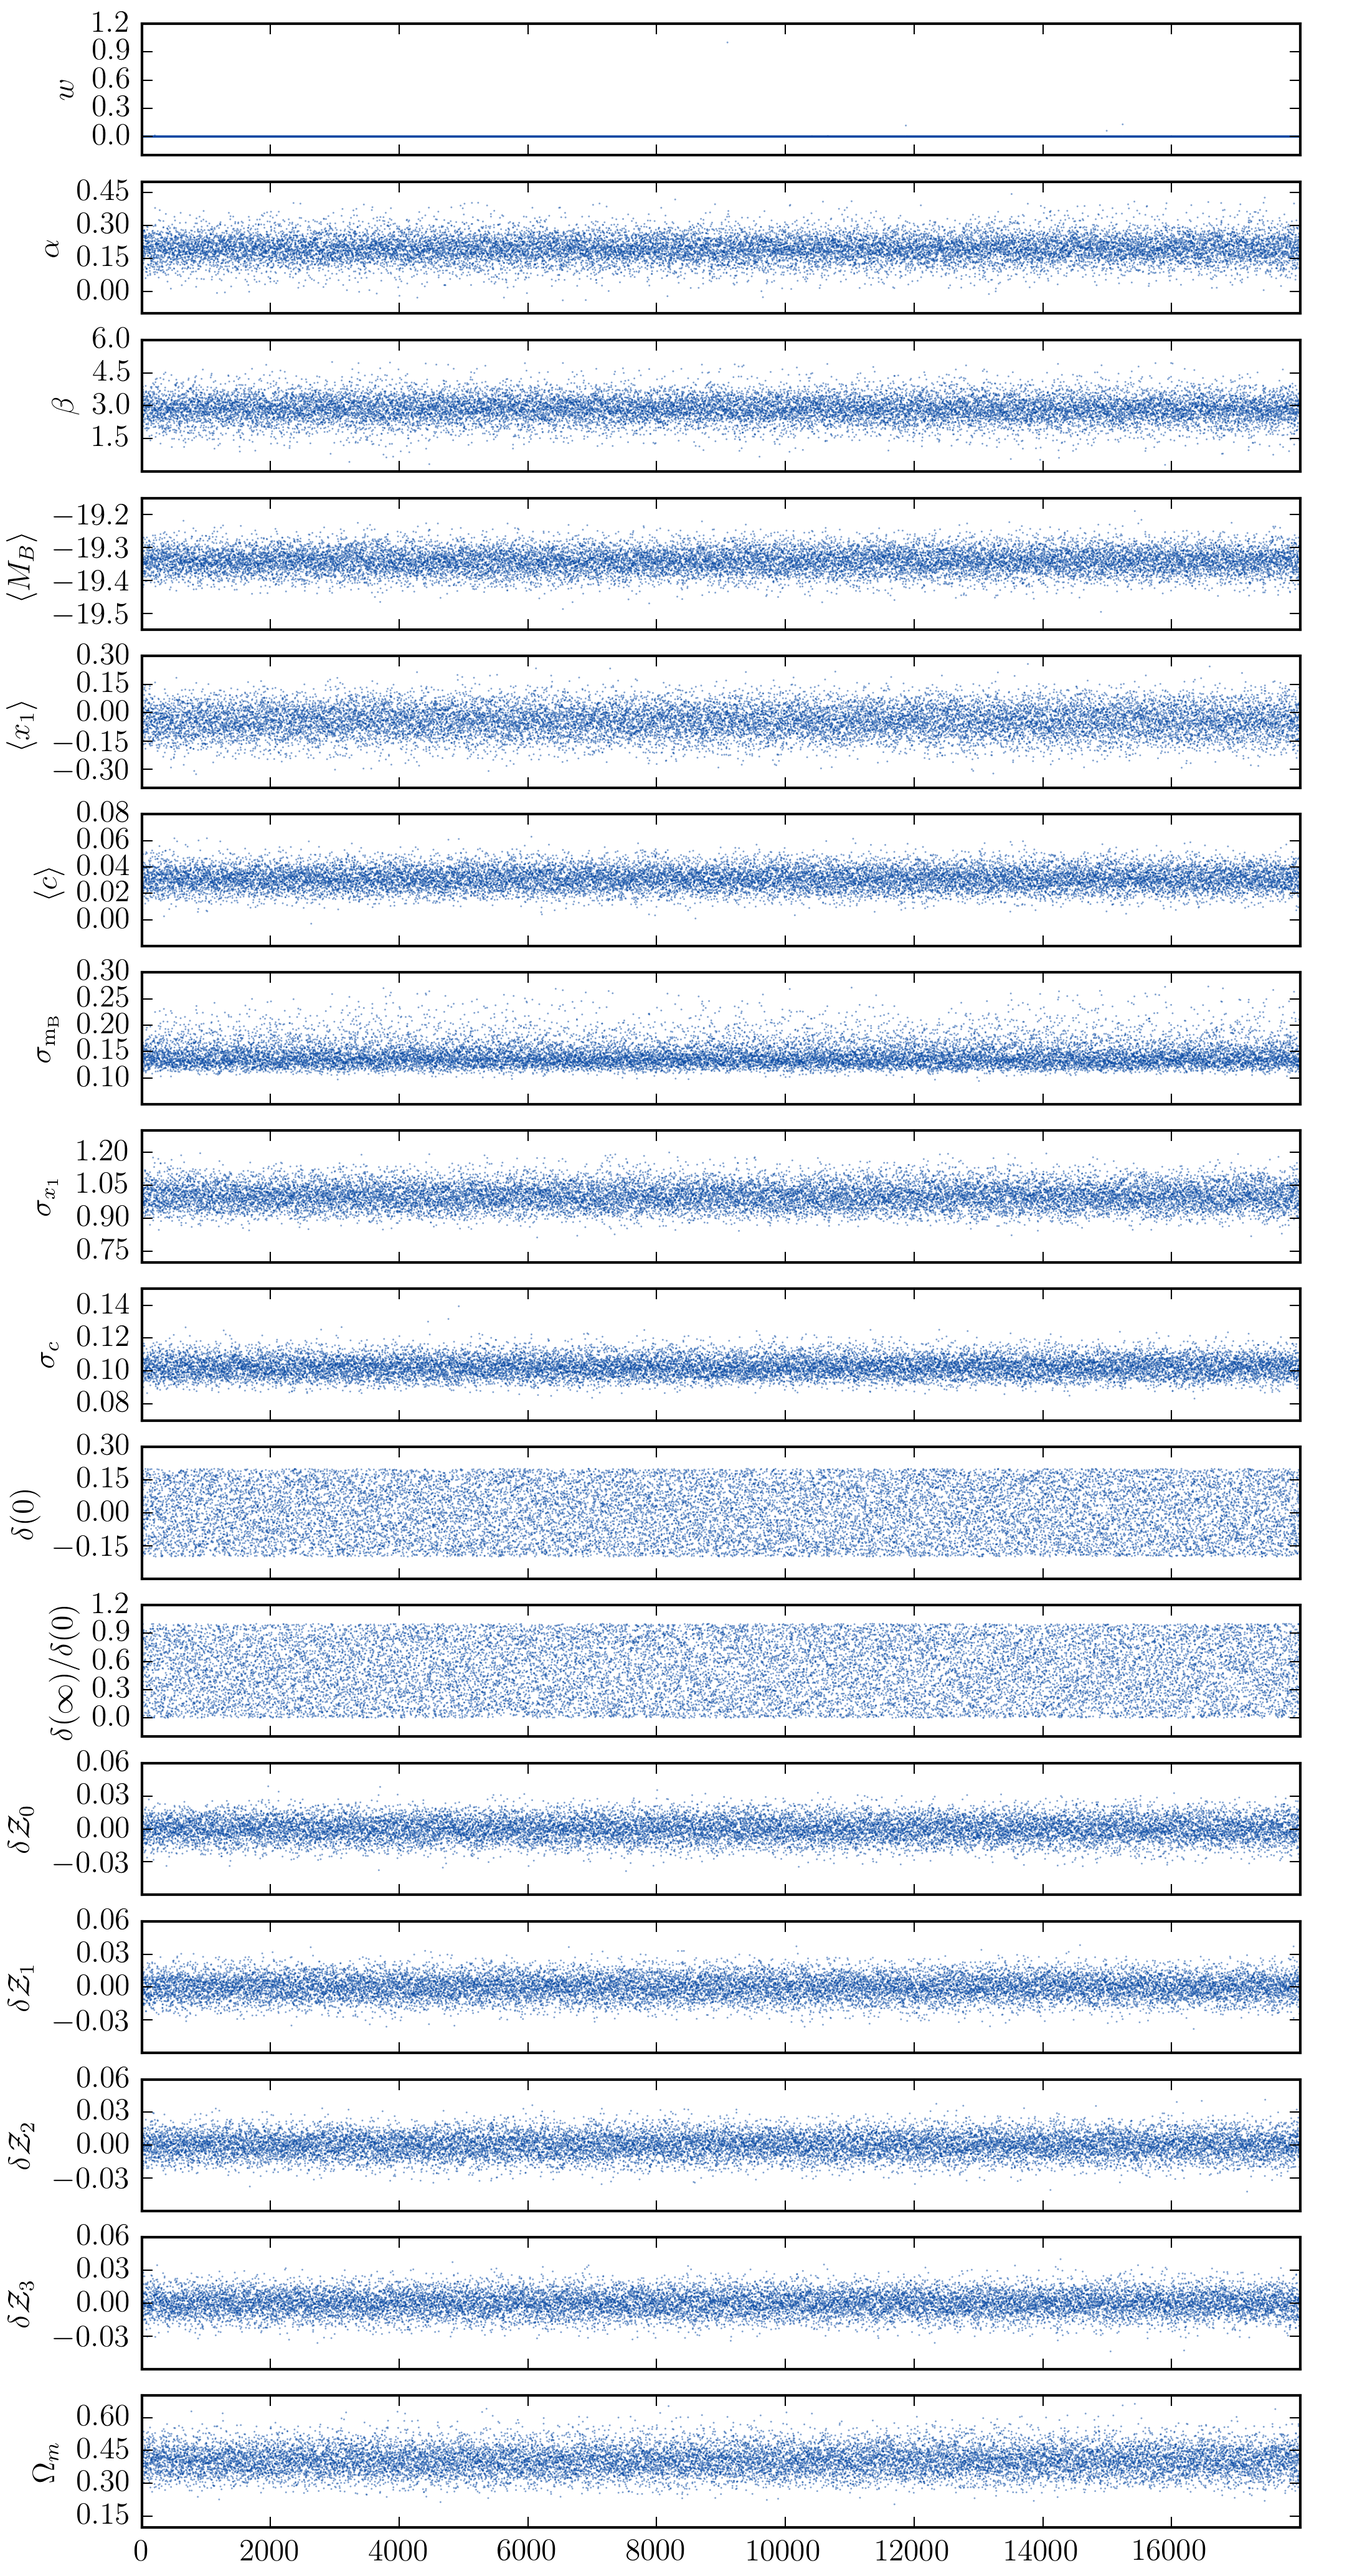
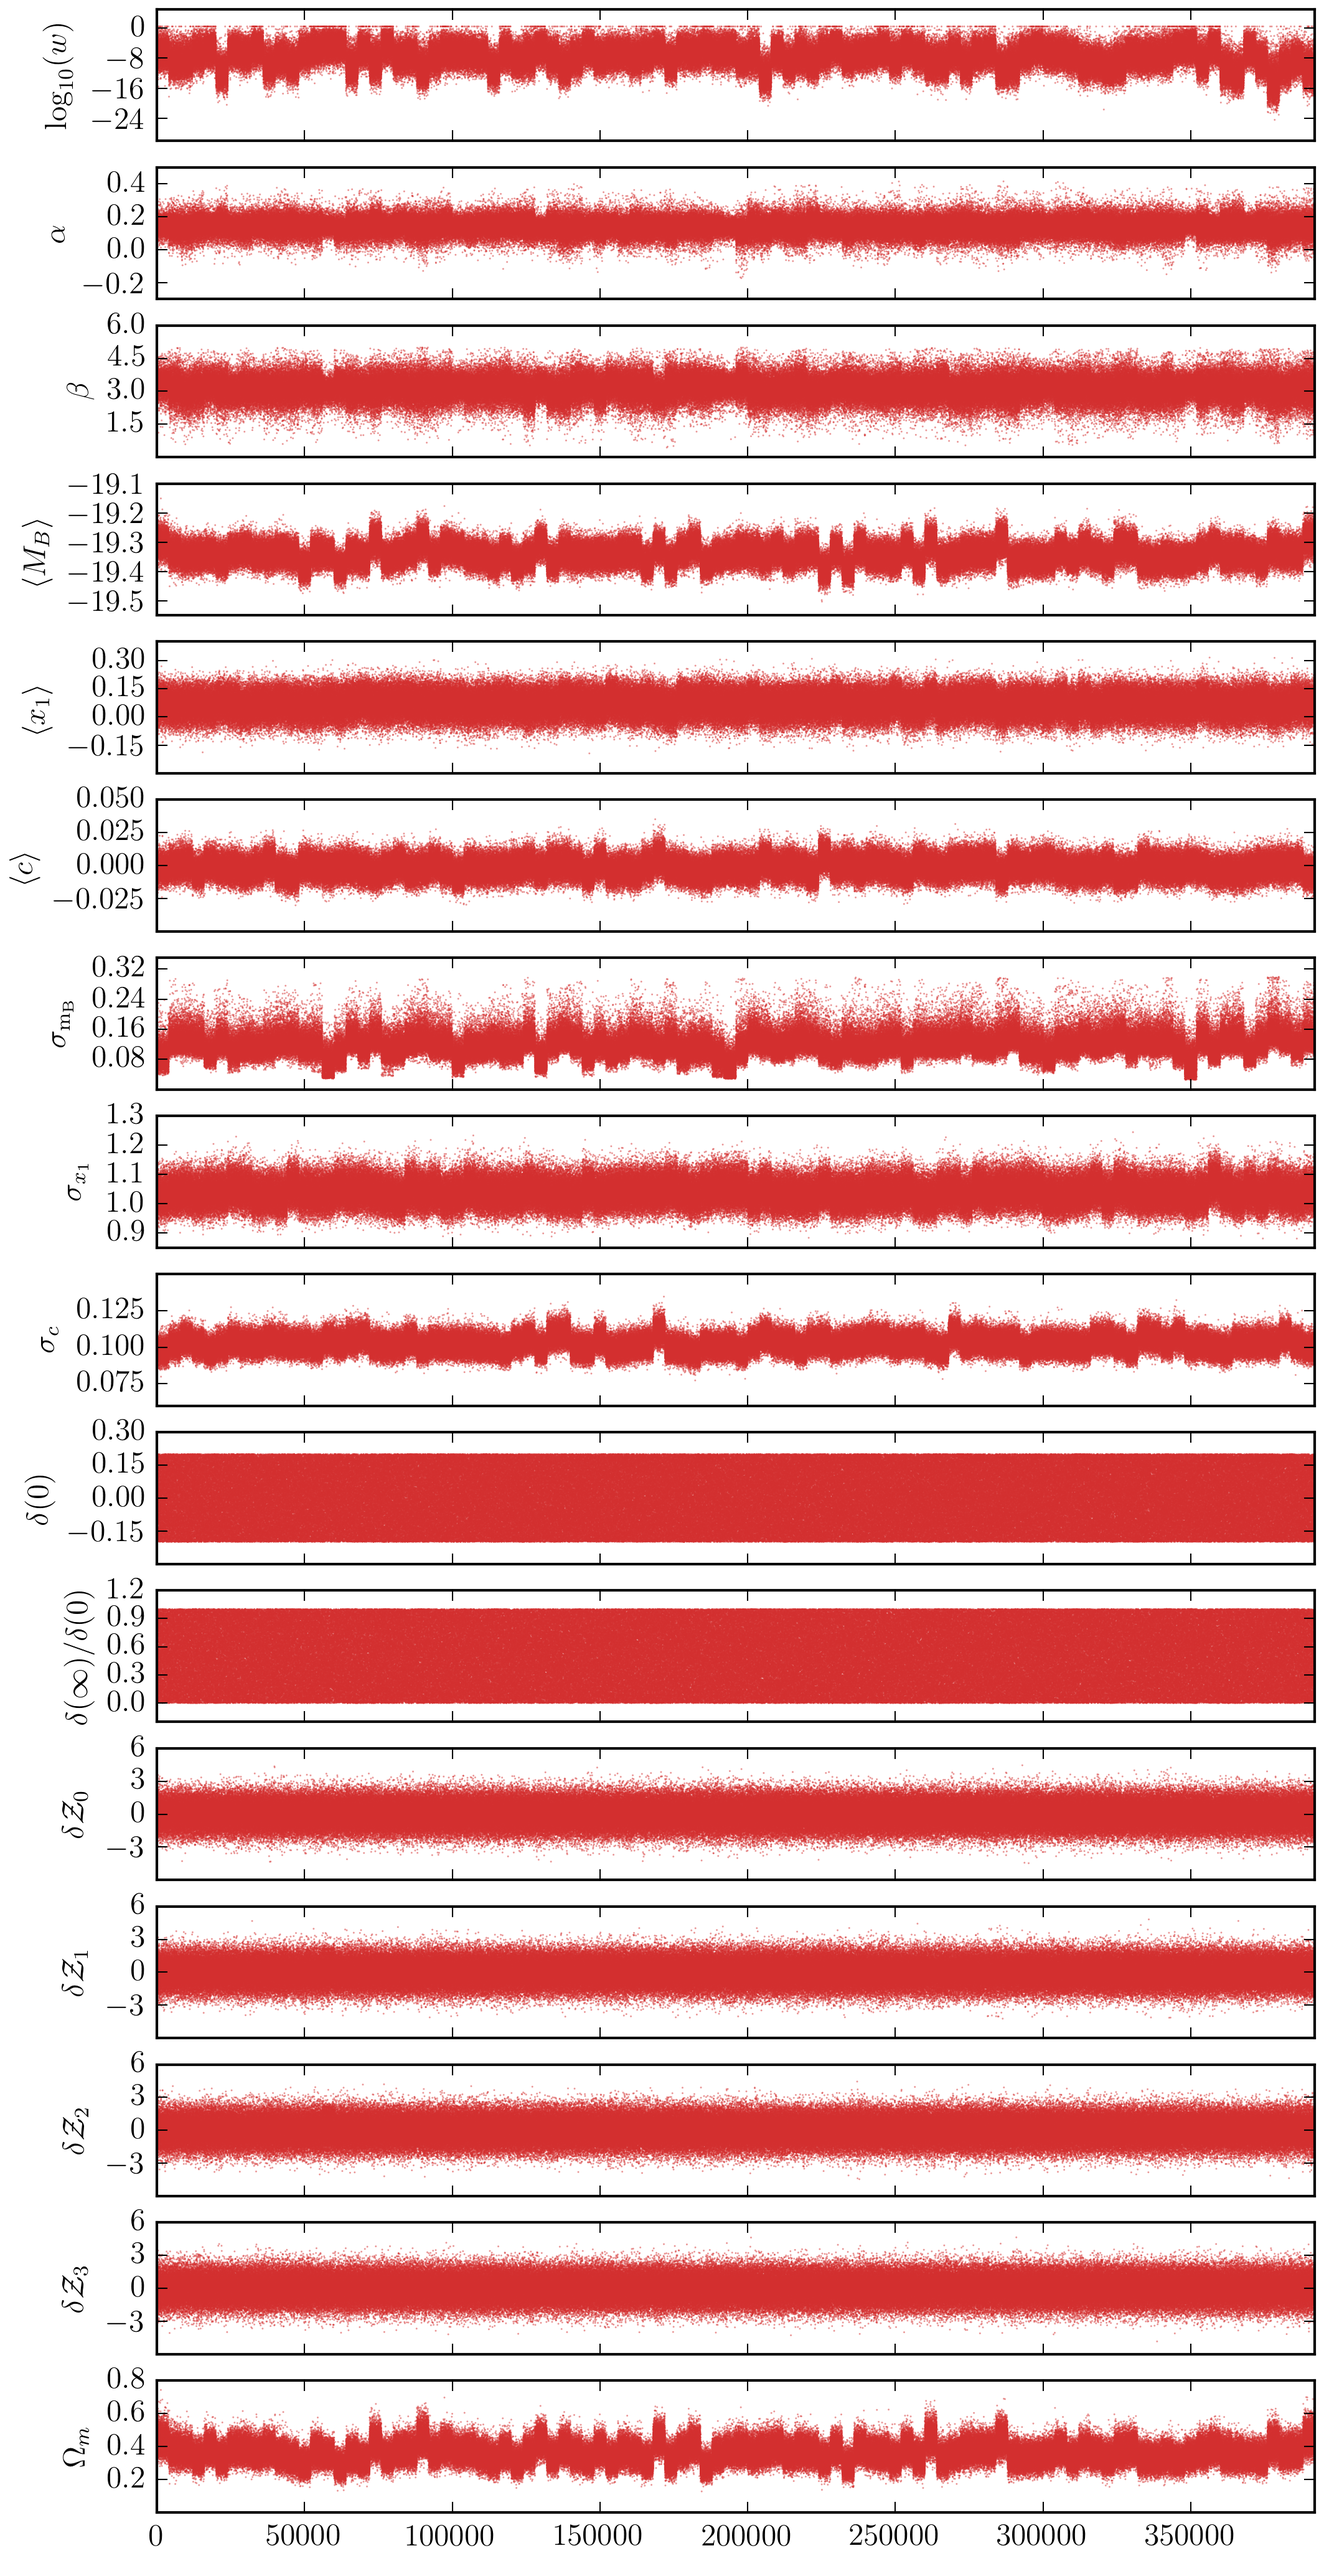
Even bigger run, now with multiple cosmologies

diff --git a/dessn/models/d_simple_stan/snana/load.py b/dessn/models/d_simple_stan/snana/load.py
@@ -16,12 +16,26 @@ def debug_plots(std):
     # plt.hist(np.log(w), 100)
     # plt.show()
     # exit()
+    logw = np.log(w)
+    m = np.mean(logw)
+    s = np.std(logw)
+    print(m, s)
+    logw -= (m + 3 * s)
+    good = logw < 0
+    logw *= good
+    w = np.exp(logw)
+
+    c = ChainConsumer()
+    c.add_chain(chain, weights=w, name="corrected")
+    c.configure(summary=True)
+    c.plot(figsize=2.0, filename="output.png", parameters=9)
+
     c = ChainConsumer()
     c.add_chain(chain, name="uncorrected")
     c.add_chain(chain, weights=w, name="corrected")
     # c.add_chain(chain, name="calib")
-    c.plot(filename="output.png", parameters=9, figsize=1.3)
-    c.plot_walks(chain=1, filename="walks.png")
+    c.plot(filename="output_comparison.png", parameters=9, figsize=1.3)
+    c.plot_walks(chains=1, filename="walks.png")
     # c.add_chain(chain, name="approx")
     # c.add_chain(chain, weights=w, name="full")
     # c.plot(filename="output.png", truth=t)

diff --git a/dessn/models/d_simple_stan/snana_dummy/load.py b/dessn/models/d_simple_stan/snana_dummy/load.py
@@ -16,6 +16,23 @@ def debug_plots(std):
     # plt.hist(np.log(w), 100)
     # plt.show()
     # exit()
+
+    logw = np.log(w)
+    m = np.mean(logw)
+    s = np.std(logw)
+    print(m, s)
+    logw -= (m + 3 * s)
+    good = logw < 0
+    logw *= good
+    w = np.exp(logw)
+
+    sorti = np.argsort(w)
+    for key in chain.keys():
+        chain[key] = chain[key][sorti]
+    w = w[sorti]
+    ow = ow[sorti]
+    posterior = posterior[sorti]
+
     c = ChainConsumer()
     truth = [0.3, 0.14, 3.1, -19.365, 0, 0, 0.1, 1.0, 0.1, 0, 0, 0, 0, 0, 0]
     c.add_chain(chain, name="uncorrected", posterior=posterior)

diff --git a/dessn/models/d_simple_stan/run.py b/dessn/models/d_simple_stan/run.py
@@ -343,7 +343,7 @@ def run_single(data_args, stan_model, n_cosmology, n_run, chains=1, weight_funct
     if short:
         w, n = 500, 1000
     else:
-        w, n = 1000, 5000
+        w, n = 3000, 50000
     data = get_analysis_data(seed=n_cosmology, **data_args)
     # import matplotlib.pyplot as plt
     # plt.hist([a[0] for a in data["obs_mBx1c"]], 30)
